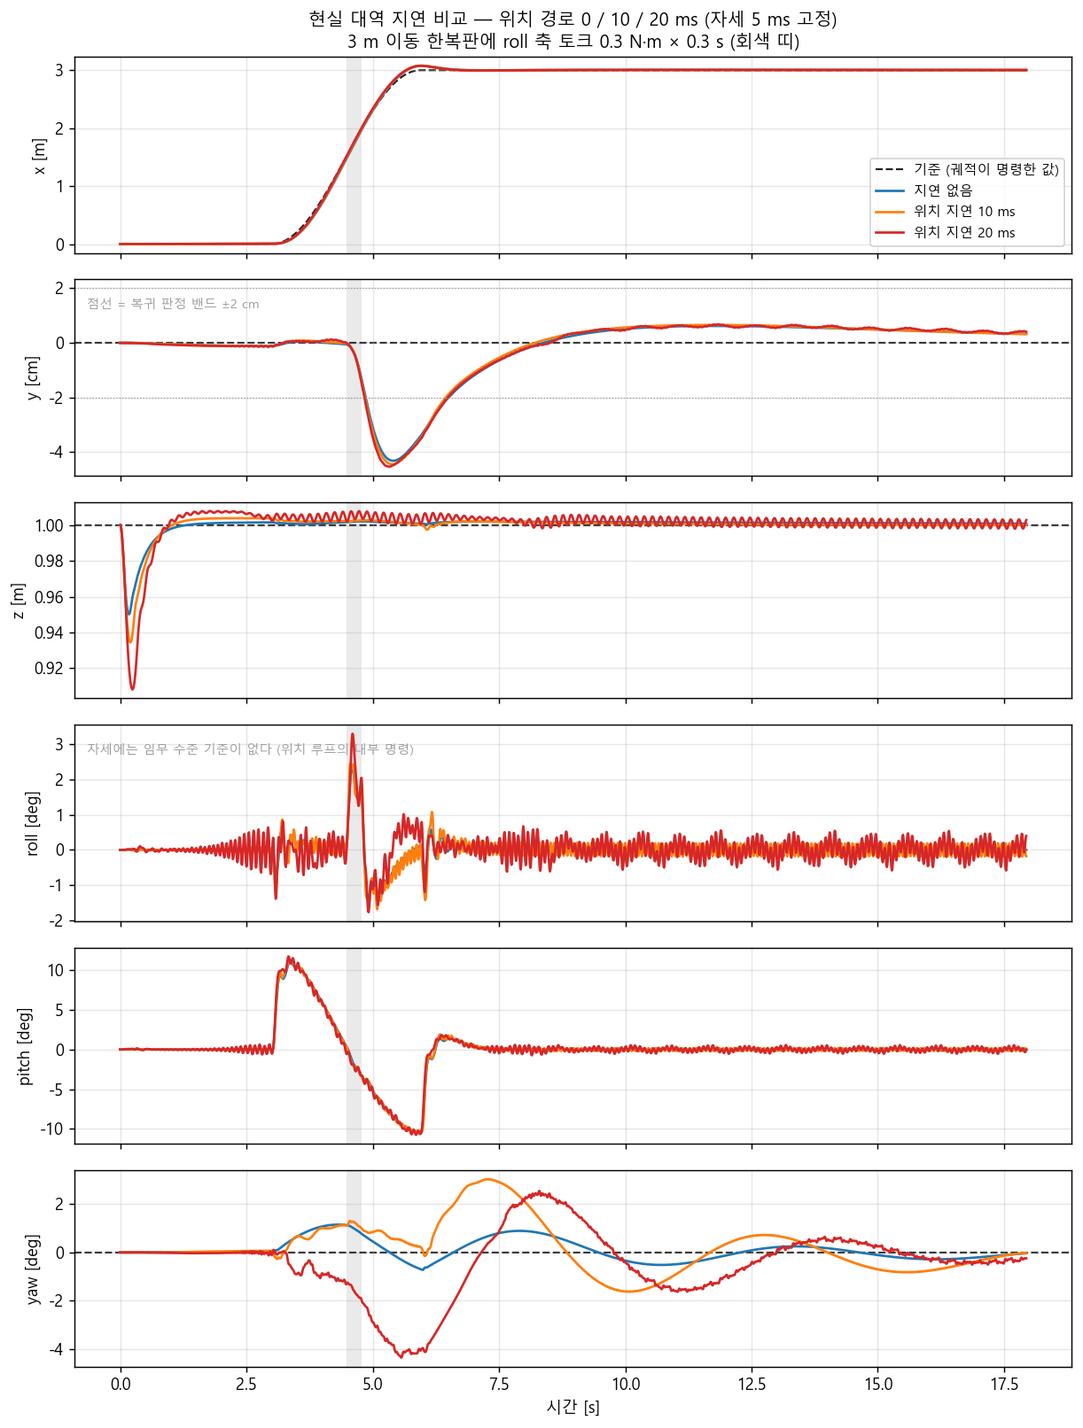
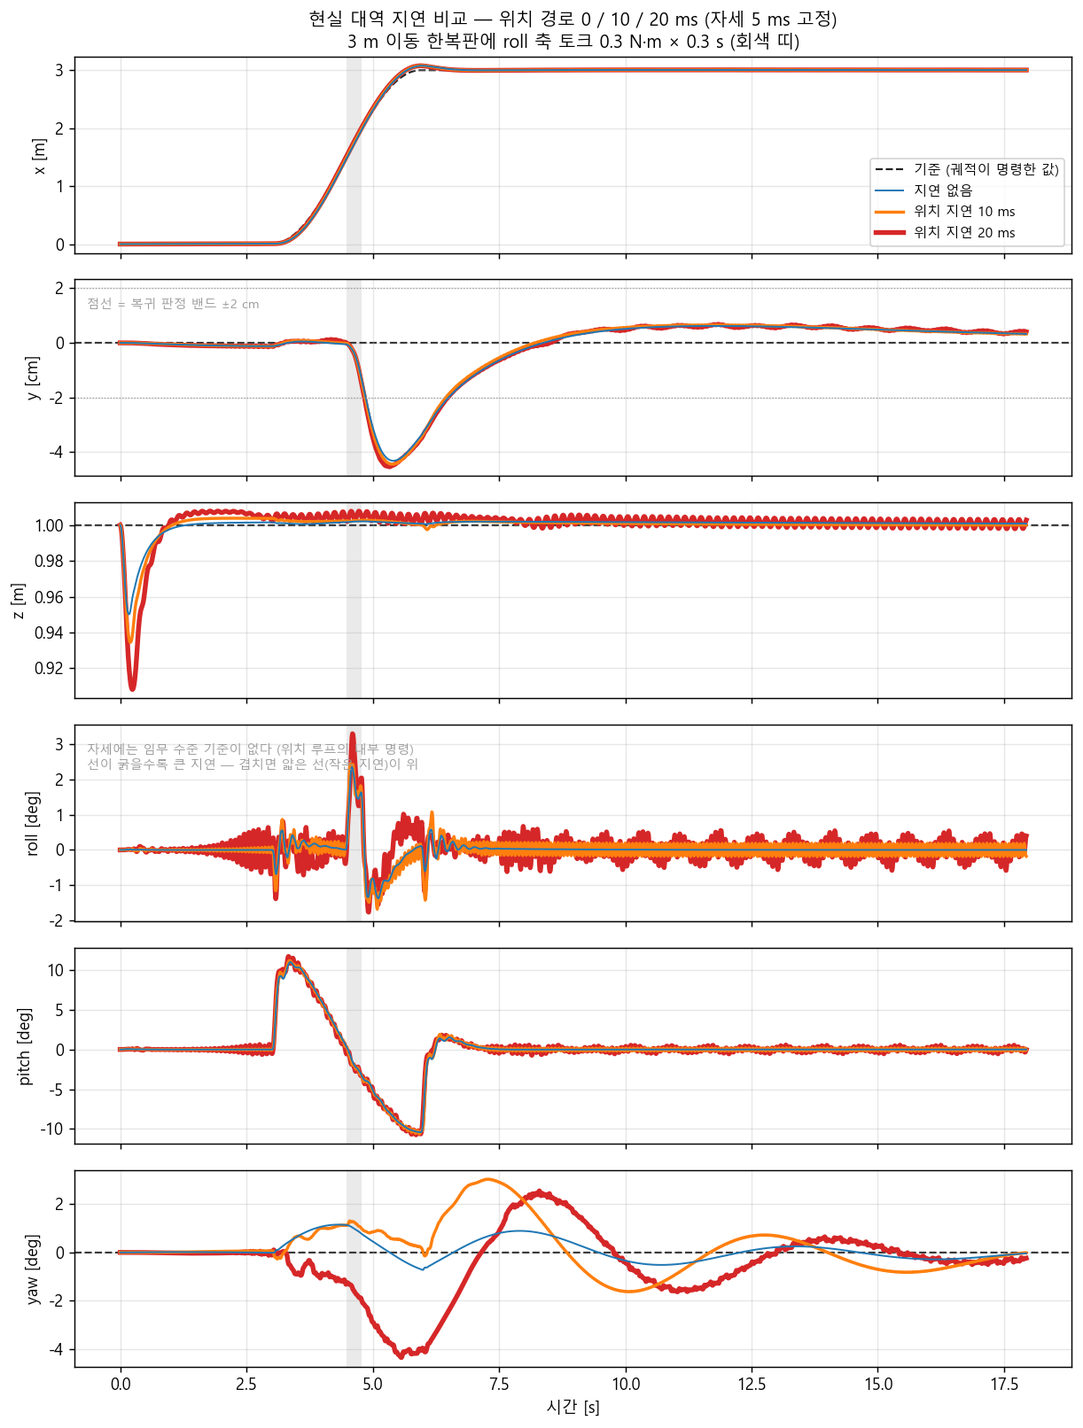
그림 15 파란 선 소실 정정 + 힘/복합 외란 그림 16
15번에서 "roll 파란 선이 안 보인다" — 선이 없는 게 아니라 세 곡선이 거의
포개져 나중에 그린 빨강(20 ms)이 파랑(무지연)을 통째로 덮은 것이다.
roll 진폭이 2.36 deg 인데 0/20 ms 차이는 최대 1.24 deg 라 겹침이 심하다.
큰 지연을 굵게 깔고 작은 지연을 가늘게 위에 얹도록 순서/선폭을 바꿨다.

곁들여 발견: summary.csv 는 마지막 실행분만 남으므로 힘 케이스(L,M,N)가
A/J/K 를 덮어써 펄스 시각을 못 찾았고, 그 결과 회색 외란 띠와 복귀 시간이
그림에서 통째로 빠져 있었다. s=1.00 공식값(T0 + TM/2) 폴백을 넣었다.

힘/복합 외란 실측으로 16번 그림 생성 (20 ms 지연 고정):
  토크 x 0.3 N*m   4.54 cm / 1.73 s
  힘 y 2 N        2.91 cm / 0.51 s
  힘 y 5 N        8.04 cm / 0.97 s
  복합            3.45 cm / 1.58 s
힘은 위치를 직접 밀지만 자세를 뒤집지 않아 복귀가 빠르다 — 복귀 시간을
지배하는 것은 밀린 거리가 아니라 자세 교란이다.

diff --git a/control_seoungjin/make_wrench_figure.py b/control_seoungjin/make_wrench_figure.py
@@ -1,0 +1,179 @@
+"""외란 종류 비교 — 토크 / 힘 / 복합 (위치 지연 20 ms 고정).
+
+2026-08-26. 사용자 요청: "힘이 걸린 외란 상황도", "토크와 힘 여러 방향으로".
+
+입력: diagnose/results/worstcase/ts_{K,L,M,N}.csv  (verify_worstcase.m)
+출력: figure/16_wrench/*.png
+
+    python make_wrench_figure.py
+
+왜 나눠 보나: 토크는 기체를 **돌려서** 간접적으로 밀고, 힘은 **직접** 민다. 힘은
+자세 루프가 개입하기 전에 이미 위치를 밀어 놓기 때문에 오차가 나타나는 시점과
+복귀 경로가 다르다. 능력 카드에 "외란 강건성"을 한 줄로 적으려면 둘 다 재야 한다.
+
+케이스 (전부 위치 지연 20 ms / 자세 5 ms / s=1.00 / 3 m 이동 한복판):
+  K  토크 x 0.3 N*m                  — 순수 토크
+  L  힘 y 2 N                        — 순수 힘 (옆바람 돌풍급)
+  M  힘 y 5 N                        — 강한 돌풍
+  N  토크 x 0.3 + 힘 y 2, z -2 N     — 복합 (비스듬히 맞고 아래로 눌림)
+"""
+from __future__ import annotations
+
+import csv
+import math
+import os
+import sys
+
+import matplotlib
+matplotlib.use("Agg")
+import matplotlib.pyplot as plt
+import numpy as np
+
+try:
+    sys.stdout.reconfigure(encoding="utf-8", errors="replace")
+except Exception:      # noqa: BLE001
+    pass
+
+OUT = os.path.join("figure", "16_wrench")
+RES = os.path.join("controller", "Quadcopter-Drone-Model-Simscape",
+                   "diagnose", "results", "worstcase")
+
+for cand in ("Malgun Gothic", "NanumGothic", "AppleGothic"):
+    try:
+        matplotlib.font_manager.findfont(cand, fallback_to_default=False)
+        plt.rcParams["font.family"] = cand
+        break
+    except Exception:
+        continue
+plt.rcParams["axes.unicode_minus"] = False
+plt.rcParams["mathtext.fontset"] = "dejavusans"
+plt.rcParams["figure.dpi"] = 130
+plt.rcParams["savefig.bbox"] = "tight"
+
+R2D = 180.0 / math.pi
+C_REF, C_GRAY = "#222222", "#999999"
+CASES = [("K", "토크 x 0.3 N·m", "#1f77b4"),
+         ("L", "힘 y 2 N", "#2ca02c"),
+         ("M", "힘 y 5 N", "#ff7f0e"),
+         ("N", "복합 (토크 x + 힘 y,z)", "#d62728")]
+Z_REF = 1.0
+T_PULSE = 3.0 + (3.0 * math.pi / (2 * 1.6)) / 2.0     # T0 + TM/2, s=1.00
+DUR = 0.3
+
+
+def load_ts(label):
+    p = os.path.join(RES, "ts_%s.csv" % label)
+    if not os.path.isfile(p):
+        return None
+    with open(p, newline="", encoding="utf-8") as fh:
+        rows = list(csv.DictReader(fh))
+    if not rows or "yaw" not in rows[0]:
+        return None
+    return {k: np.array([float(r[k]) for r in rows]) for k in rows[0]}
+
+
+def recover_s(d):
+    idx = np.where(d["t"] > T_PULSE + DUR)[0]
+    ok = np.abs(d["y"]) < 0.02
+    for j, k in enumerate(idx):
+        if ok[idx[j:]].all():
+            return d["t"][k] - (T_PULSE + DUR)
+    return None
+
+
+def main():
+    have = [(l, t, c, d) for l, t, c in CASES if (d := load_ts(l)) is not None]
+    missing = [l for l, _, _ in CASES if load_ts(l) is None]
+    if len(have) < 2:
+        print("시계열이 부족하다 (없음: %s)" % ", ".join(missing))
+        print("  MATLAB 에서 WC_ONLY='L,M,N' 로 verify_worstcase 를 돌릴 것.")
+        return 1
+    if missing:
+        print("주의 — 빠진 케이스: %s" % ", ".join(missing))
+
+    fig, ax = plt.subplots(6, 1, figsize=(9.5, 12.5), sharex=True)
+    panels = [("x", "x [m]", 1.0), ("y", "y [cm]", 100.0), ("z", "z [m]", 1.0),
+              ("roll", "roll [deg]", R2D), ("pitch", "pitch [deg]", R2D),
+              ("yaw", "yaw [deg]", R2D)]
+
+    d0 = have[0][3]
+    ax[0].plot(d0["t"], d0["xref"], color=C_REF, lw=1.2, ls="--",
+               label="기준 (궤적이 명령한 값)", zorder=1)
+    ax[1].axhline(0.0, color=C_REF, lw=1.2, ls="--", zorder=1)
+    ax[2].axhline(Z_REF, color=C_REF, lw=1.2, ls="--", zorder=1)
+    ax[5].axhline(0.0, color=C_REF, lw=1.2, ls="--", zorder=1)
+
+    # 외란 밖의 구간에서는 네 곡선이 거의 포개진다. 같은 굵기로 순서대로 그리면
+    # 나중에 그린 색이 앞의 색을 통째로 덮어 "그 선이 없다" 로 보인다 (15 번 그림에서
+    # 실제로 겪었다). 자극이 센 쪽을 굵게 깔고 약한 쪽을 가늘게 위에 얹는다.
+    order = list(reversed(have))
+    lws = [3.0, 2.2, 1.6, 1.0][-len(order):]
+    for i, (key, ylab, scale) in enumerate(panels):
+        for (lab, ttl, col, d), lw in zip(order, lws):
+            ax[i].plot(d["t"], scale * d[key], color=col, lw=lw, zorder=2,
+                       label=ttl if i == 0 else None)
+        ax[i].set_ylabel(ylab)
+        ax[i].grid(alpha=0.3)
+        ax[i].axvspan(T_PULSE, T_PULSE + DUR, color=C_GRAY, alpha=0.20, lw=0, zorder=0)
+
+    ax[0].set_title("외란 종류 비교 — 토크 / 힘 / 복합 (위치 지연 20 ms 고정)\n"
+                    "3 m 이동 한복판, 0.3 s 인가 (회색 띠)", fontsize=11)
+    hs, ls = ax[0].get_legend_handles_labels()
+    idx = [0] + list(range(len(hs) - 1, 0, -1))   # 역순으로 그렸으니 범례는 되돌린다
+    ax[0].legend([hs[i] for i in idx], [ls[i] for i in idx],
+                 loc="lower right", fontsize=8.5)
+    ax[1].axhline(2, color=C_GRAY, lw=0.7, ls=":")
+    ax[1].axhline(-2, color=C_GRAY, lw=0.7, ls=":")
+    ax[1].text(0.012, 0.90, "점선 = 복귀 판정 밴드 ±2 cm", transform=ax[1].transAxes,
+               fontsize=8, color=C_GRAY, va="top")
+    ax[5].set_xlabel("시간 [s]")
+    fig.tight_layout()
+
+    os.makedirs(OUT, exist_ok=True)
+    path = os.path.join(OUT, "fig_wrench_states.png")
+    fig.savefig(path)
+    plt.close(fig)
+    print("  " + path)
+
+    # 확대 그림: 펄스 전후 4초만 — 응답 모양의 차이가 여기서 보인다
+    fig2, ax2 = plt.subplots(3, 1, figsize=(9.0, 6.6), sharex=True)
+    for (lab, ttl, col, d), lw in zip(order, lws):
+        m = (d["t"] > T_PULSE - 1.0) & (d["t"] < T_PULSE + 4.0)
+        ax2[0].plot(d["t"][m], 100 * d["y"][m], color=col, lw=lw, label=ttl)
+        ax2[1].plot(d["t"][m], 100 * (d["z"][m] - Z_REF), color=col, lw=lw)
+        ax2[2].plot(d["t"][m], R2D * d["roll"][m], color=col, lw=lw)
+    for a, yl in zip(ax2, ("y [cm]", "z 오차 [cm]", "roll [deg]")):
+        a.set_ylabel(yl)
+        a.grid(alpha=0.3)
+        a.axvspan(T_PULSE, T_PULSE + DUR, color=C_GRAY, alpha=0.20, lw=0)
+    ax2[0].axhline(2, color=C_GRAY, lw=0.7, ls=":")
+    ax2[0].axhline(-2, color=C_GRAY, lw=0.7, ls=":")
+    h2, l2 = ax2[0].get_legend_handles_labels()
+    ax2[0].legend(h2[::-1], l2[::-1], fontsize=8.5)
+    ax2[0].set_title("펄스 전후 확대 — 토크는 돌려서 밀고, 힘은 직접 민다", fontsize=11)
+    ax2[2].set_xlabel("시간 [s]")
+    fig2.tight_layout()
+    p2 = os.path.join(OUT, "fig_wrench_zoom.png")
+    fig2.savefig(p2)
+    plt.close(fig2)
+    print("  " + p2)
+
+    print()
+    print("%-24s %9s %9s %9s %9s %9s %8s"
+          % ("외란", "y최대[cm]", "z최대[cm]", "roll[deg]", "pitch[deg]", "yaw[deg]", "복귀[s]"))
+    for lab, ttl, col, d in have:
+        m = d["t"] >= T_PULSE
+        rec = recover_s(d)
+        print("%-24s %9.2f %9.2f %9.2f %9.2f %9.2f %8s"
+              % (ttl,
+                 100 * np.abs(d["y"][m]).max(),
+                 100 * np.abs(d["z"][m] - Z_REF).max(),
+                 R2D * np.abs(d["roll"][m]).max(),
+                 R2D * np.abs(d["pitch"][m]).max(),
+                 R2D * np.abs(d["yaw"][m]).max(),
+                 "-" if rec is None else "%.2f" % rec))
+    return 0
+
+
+if __name__ == "__main__":
+    sys.exit(main())

diff --git a/control_seoungjin/make_realband_figure.py b/control_seoungjin/make_realband_figure.py
@@ -57,6 +57,11 @@ CASES = [("A", "지연 없음", "#1f77b4"),
          ("J", "위치 지연 10 ms", "#ff7f0e"),
          ("K", "위치 지연 20 ms", "#d62728")]
 Z_REF = 1.0        # 이 임무의 고도 기준 (verify_worstcase.m 의 Z0)
+# s=1.00 일 때의 펄스 시각 — T0 + TM/2, TM = 3 m / v_ref(1.6) 의 사다리꼴 시간.
+# summary.csv 는 마지막 실행분만 남기므로 (WC_ONLY 로 골라 돌리면 그 케이스만),
+# A/J/K 가 거기 없을 때 쓰는 폴백이다. verify_worstcase.m 의 정의와 같아야 한다.
+T_PULSE_S1 = 3.0 + (3.0 * math.pi / (2 * 1.6)) / 2.0
+DUR = 0.3
 
 
 def load_ts(label):
@@ -109,7 +114,9 @@ def main():
         if tp is not None:
             break
     if tp is None:
-        print("주의 — summary.csv 에서 펄스 시각을 못 찾았다. 복귀 시간을 못 낸다.")
+        tp = T_PULSE_S1
+        print("주의 — summary.csv 에 A/J/K 가 없다 (다른 케이스가 덮어씀). "
+              "s=1.00 공식값 t=%.3f s 로 대체한다." % tp)
 
     fig, ax = plt.subplots(6, 1, figsize=(9.5, 12.5), sharex=True)
     panels = [("x", "x [m]", 1.0), ("y", "y [cm]", 100.0), ("z", "z [m]", 1.0),
@@ -124,24 +131,35 @@ def main():
     ax[2].axhline(Z_REF, color=C_REF, lw=1.2, ls="--", zorder=1)
     ax[5].axhline(0.0, color=C_REF, lw=1.2, ls="--", zorder=1)
 
+    # 세 곡선은 거의 포개진다 (roll 은 진폭 2.4 deg 에 0/20 ms 차이가 최대 1.2 deg).
+    # 그냥 같은 굵기로 순서대로 그리면 나중에 그린 색이 앞의 색을 통째로 덮어
+    # "파란 선이 안 보인다" 가 된다. 지연이 큰 쪽을 굵게 깔고 작은 쪽을 가늘게
+    # 위에 얹어, 겹치는 구간에서도 세 색이 다 남게 한다.
+    order = list(reversed(have))
+    lws = [3.0, 1.9, 1.1][-len(order):]
     for i, (key, ylab, scale) in enumerate(panels):
-        for lab, ttl, col, d in have:
-            ax[i].plot(d["t"], scale * d[key], color=col, lw=1.5, zorder=2,
+        for (lab, ttl, col, d), lw in zip(order, lws):
+            ax[i].plot(d["t"], scale * d[key], color=col, lw=lw, zorder=2,
                        label=ttl if i == 0 else None)
         ax[i].set_ylabel(ylab)
         ax[i].grid(alpha=0.3)
         if tp is not None:
-            ax[i].axvspan(tp, tp + 0.3, color=C_GRAY, alpha=0.20, lw=0, zorder=0)
+            ax[i].axvspan(tp, tp + DUR, color=C_GRAY, alpha=0.20, lw=0, zorder=0)
 
     ax[0].set_title("현실 대역 지연 비교 — 위치 경로 0 / 10 / 20 ms (자세 5 ms 고정)\n"
                     "3 m 이동 한복판에 roll 축 토크 0.3 N·m × 0.3 s (회색 띠)",
                     fontsize=11)
-    ax[0].legend(loc="lower right", fontsize=8.5)
+    # 위에서 역순으로 그렸으므로 범례는 다시 지연 오름차순으로 돌려 놓는다
+    hs, ls = ax[0].get_legend_handles_labels()
+    idx = [0] + list(range(len(hs) - 1, 0, -1))
+    ax[0].legend([hs[i] for i in idx], [ls[i] for i in idx],
+                 loc="lower right", fontsize=8.5)
     ax[1].axhline(2, color=C_GRAY, lw=0.7, ls=":")
     ax[1].axhline(-2, color=C_GRAY, lw=0.7, ls=":")
     ax[1].text(0.012, 0.90, "점선 = 복귀 판정 밴드 ±2 cm", transform=ax[1].transAxes,
                fontsize=8, color=C_GRAY, va="top")
-    ax[3].text(0.012, 0.90, "자세에는 임무 수준 기준이 없다 (위치 루프의 내부 명령)",
+    ax[3].text(0.012, 0.90, "자세에는 임무 수준 기준이 없다 (위치 루프의 내부 명령)\n"
+                            "선이 굵을수록 큰 지연 — 겹치면 얇은 선(작은 지연)이 위",
                transform=ax[3].transAxes, fontsize=8, color=C_GRAY, va="top")
     ax[5].set_xlabel("시간 [s]")
     fig.tight_layout()
@@ -162,11 +180,11 @@ def main():
         settled = d["t"] > 6.0
         rec = None
         if tp is not None:
-            idx = np.where(d["t"] > tp + 0.3)[0]
+            idx = np.where(d["t"] > tp + DUR)[0]
             ok = np.abs(d["y"]) < 0.02
             for j, k in enumerate(idx):
                 if ok[idx[j:]].all():
-                    rec = d["t"][k] - (tp + 0.3)
+                    rec = d["t"][k] - (tp + DUR)
                     break
         zr = 100.0 * (d["z"][settled].max() - d["z"][settled].min()) if settled.any() else float("nan")
         print("%-16s %9.2f %9.2f %9.2f %9.2f %9.2f %9.2f %8s"

diff --git a/control_seoungjin/SESSIONS_BOARD.md b/control_seoungjin/SESSIONS_BOARD.md
@@ -17,6 +17,7 @@
 ## 튜닝/C++ 세션 (17차 계열)
 - 08-26 — **사용 전력량 지표 신설 (`energy.py`) + 극한 조합 MATLAB 실측**. 사용자 요구: "먼저 사용 전력 추정치 -> 실제 전력 사용량 확인 -> 피드백", "위에서 남은 전력 가지고 잘 짜지". ① **역할 분리 확정**: 잔량은 **BMS/전력모듈만** 안다 (모터 회전량 적분은 드리프트·노화·온도를 못 보는 열린 루프). 모터 관측은 잔량이 아니라 **교차검증 + BMS 없는 시뮬의 대체 실측** 용도. 추정치는 운동량 이론 `T=m|a-g|` -> `P_ideal/(FM*eta)` — 궤적만 있으면 **비행 전에** 나오므로 계획기가 쓴다. 눈금: 1 kg 호버 **267 W = 8.5 g/W** (실기 대역). ② **★ 세 모델이 갈렸다**: 같은 호버(634 rad/s, 22.3 N)를 운동량 이론 267 W / Simscape 배터리 **90 W (25 g/W, 불가능하게 좋음)** / `qc_motor.hpp` Cq **636 W (3.6 g/W, 비현실적으로 나쁨)** 로 예측. Simscape 배터리는 SOC 표시용 이상화 모델이고, `Cq` 는 프로펠러 공력이 아니라 **토크 클램프 0.2 N·m 에서 634 rad/s 가 되도록 역산**된 값이라 그렇다. **둘 다 교정 출처에서 배제** (`TRUSTED_SOURCES = {power_module, bms, flight_log}`) — 낙관적인 쪽(0.335배)으로 교정하면 계획기가 여유를 3배로 착각해 배터리가 임무 중에 죽는다. 실기 전력 모듈 들어오면 그때 연다. ③ **감쇄의 에너지 대가 정량화**: 이 기체는 E ≈ 무게x시간 (3 m 이동 평균 전력이 호버와 동일 — 기동 몫이 측정 한계 안, 게인 조임도 마찬가지). 따라서 스펙을 s 로 깎으면 시간이 1/s 로 늘어 **에너지도 ~1/s 로 는다**: s=0.75 +33% / 0.55 +82% / 0.37 **+170%**. 지연 강건성과 전력이 정면으로 맞서므로 답은 "최소화"가 아니라 **게이트를 통과하는 가장 큰 s** (= recovery_watcher 가 하는 일). 과감쇄에 이제 가격표가 붙었다. ④ **극한 조합 실측** (`diagnose/verify_worstcase.m`, 9케이스): A 무지연 s=1.00 복귀 **1.73 s** (기록된 1 kg 기준선과 정확히 일치 = 회귀 무결) vs B 지연 60/12 ms **안 깎음** 복귀 **9.44 s** (5.5배 악화, 게이트 3 s 초과) — **"지연이 있으면 스펙을 깎아야 한다"의 직접 증거**. 문서 `INTERFACE_SPEC.md` 5e 신설, 그림 `figure/13_worstcase/`, 테스트 +28 (총 293)
 - 08-26 — **Gazebo 검증 하네스 작성 (`control_seoungjin/gazebo/`, 미실행)** + 그 과정에서 **C++ 버그 2건 적발**. ① **고도 클램프 배선 오류 — 고침**: `qc_controller.cpp` 가 `base = clamp(uA + bias, ±30)` 이라 1 kg 에서 base 가 항상 30 rev/s 로 잘렸다 → 추력 **1.97 N vs 무게 22.29 N**, 즉 **제어기가 뜰 수 없는 상태**였다. Simulink 배선은 `cmd → Alt Cmd Sat → Bias Chassis` (`diagnose/bake_tuned_model.m` (3)) 로 포화가 **바이어스 전**이다 → `base = clamp(uA, ±30) + bias` 로 정정. 검증(msys64 g++ 재빌드 실측): 호버 `motorRef = 634.0 rad/s` = 기록된 호버 평형과 일치, 추력 22.26 vs 22.29 N, 추력비 0.895 (`controller_cpp/README` 기록 0.907). 교차 확인: 0 kg 역산 base 75.6 rev/s == `qc_mass_lerp` 0 kg 앵커 **75.5** (독립 유도인데 0.1% 일치). **★ motorRef/motorCmd 골든 트레이스 재대조 필요** (cmd_pitch/cmd_roll 위치 체인은 불변 → 07-18 합격 유지). ② **`mixYaw` 는 yaw 토크를 못 만든다 (미수정, 하네스에서만 우회)**: 헤더 `mixYaw={-1,+1,-1,+1}` 이 `mixDir={+1,-1,-1,+1}` 과 **직교** → 반토크 차동이 상쇄돼 yaw 권한이 원리적으로 0. 유도되는 로터 배치도 대각 회전방향이 반대라 X 쿼드 위반. 08-18 실측표는 `mixYaw = -mixDir` 로 완전 정렬 + 네 행 상호 직교. **08-18 이 남긴 "모터 인덱스 치환만큼 어긋나 보인다" 는 반증됨** — 치환은 `mixYaw·mixDir` 내적을 못 바꾸므로 헤더 표는 어떤 치환으로도 실측표가 될 수 없다. 헤더는 골든 불변 위해 안 건드리고 하네스 기본값만 실측표로. 하네스가 `probe_yaw` vs `probe_yaw_headertable` 로 실측 확인 예정. 상세: `gazebo/README.md`, `gazebo/GAZEBO_STATUS.md`
+- 08-28 — **힘/복합 외란 실측 (L·M·N) + 그림 15·16 가시성 정정**. ① 힘 외란은 토크보다 **부드럽다**: 같은 20 ms 지연에서 토크 x 0.3 N*m = 옆밀림 4.54 cm / 복귀 1.73 s 인데, 힘 y 2 N (돌풍급) = 2.91 cm / **0.51 s**, 힘 y 5 N (강한 돌풍) = 8.04 cm / 0.97 s, 복합(토크 x + 힘 y 2, z -2) = 3.45 cm / 1.58 s. 힘은 위치를 직접 밀지만 자세를 뒤집지 않아 복귀가 빠르고, 토크는 자세를 흔들어 놓아 오래 끈다 — **복귀 시간을 지배하는 것은 밀린 거리가 아니라 자세 교란**이다. 다만 힘 5 N 은 roll 14.9 deg / yaw 18.3 deg 로 yaw 가 크게 밀린다 (창 통과 반FOV 관점에서 별도 판정 필요). ② 그림 15 에서 '파란 선(무지연)이 안 보인다' — 실제로는 세 곡선이 거의 포개져 나중에 그린 빨강이 덮은 것 (roll 진폭 2.36 deg 에 0/20 ms 차이 최대 1.24 deg). **큰 지연을 굵게 깔고 작은 지연을 가늘게 위에 얹도록** 그리는 순서·선폭을 바꿨다 (15·16 둘 다). ③ `summary.csv` 는 마지막 실행분만 남으므로 (WC_ONLY 로 골라 돌리면 그 케이스만) A/J/K 가 사라져 회색 외란 띠와 복귀 시간이 통째로 빠져 있었다 → s=1.00 공식값 `T0 + TM/2` 폴백 추가. 그림 `figure/16_wrench/`
 - 08-18 저녁 — **골든 트레이스 대조 완료 → 믹서 부호·모멘트 암 정정** (`compare_golden.py` + `diagnose/golden_plant_export*.m`) — 각가속도 직접 상관으로 재검정. **아래 줄 ②의 부호표는 틀렸다**: roll `[-1,+1,-1,+1]` / pitch `[+1,+1,-1,-1]` (**둘 다 반전**) / yaw `[-1,+1,+1,-1]`(불변) — 피치 상관이 −0.916 → **+0.975**로 뒤집혀 확정. 오류 원인은 **정착 각도로 부호를 유추한 것** (각도 유지 구간은 순토크≈0이라 각도-차동량 관계로 토크 부호를 읽을 수 없음. 옳은 검정은 각가속도와의 순간 상관). ③의 "균등 가중치"도 정정 — **유효 모멘트 암 ℓ = 0.0930 m** (가정했던 X-쿼드 균등값 0.159 m가 아님; roll/pitch 유효계수 0.0932 vs 0.0929로 0.4% 이내 일치 = 플랜트 대칭 자기검증). **개별 모터 암은 식별 불가** — 조건수 1.1e4, 4파라미터 R² 0.8404가 1파라미터 0.839와 무차이(호버에서 네 추력이 거의 같아 분리 안 됨). 개루프 모터 가진 필요 (§11.3). 병진도 검증 통과(x 진폭 0.4% 일치, 호버 z 잔차 평균 +0.00136 m/s²). 방법 전환 기록: n(t) 재생은 **실패**(감쇠 없는 이중적분기라 추력 불균형 0.08 N만으로 수 초 만에 발산, 위치 오차 16 m) → 잔차 대조로 교체. 함정 실증: Simscape rpm에 물리 Ct를 먹여 위치 오차 35 m — §5.3 경고가 실제로 사람을 잡음. 문서 반영 `docs/DYNAMICS.md` §10.2/§10.4/§11.1/§11.3. **★튜닝/C++ 세션**: `qc_controller.hpp:155`의 `[TODO-verify: 입력 포트 순서 — 골든 트레이스가 최종 판정]`이 이제 판정 가능. 단 C++ 표(pitch `[+1,-1,-1,+1]`/roll `[-1,-1,+1,+1]`/yaw `[-1,+1,-1,+1]`, 블록 덤프 출처)와 위 실측표가 **모터 인덱스 치환만큼 어긋나** 보임 — 로터 인덱스→기하 매핑(윤호 seam에서도 미정) 확정과 함께 대조 요망
 - 08-18 — **자세 게인 스케일 법칙: 판별 불가로 종결** (`probe_2kg_law.m`) — 2kg에서 후보 3종(1차식 1.250 / I·m^-0.5 1.077 / 관성비 1.293) 대조: 추종 3.96 / 4.04 / 4.01, 오버 7.6 / 7.8 / 7.7 — **게인 20% 차이에 성능 2% 변동**으로 구별 불가. A행은 18차 기록 소수점까지 재현(회귀 무결). ★핵심: 실패 원인이 0kg과 **정반대** — 0kg은 과민(3e-7에 34% 변동), 2kg은 둔감(20%에 2% 변동). 즉 **법칙의 형태가 결과를 좌우하는 구간은 저질량뿐이고 그 구간은 측정 불가**. 0.5~2kg은 어떤 법칙이든 무방하며 중요한 건 보정의 존재 자체. → 현행 1차식 유지, 보고서엔 물리 유도가 아니라 **경험적 보정**으로 기술할 것 (DYNAMICS.md §11.2)
 - 08-18 — **★미확정 2건 실측 확정 (믹서 부호표 / 프로펠러 회전속도)** — `diagnose/probe_prop_and_mixer.m` 신설·실행. ① **프로펠러 단위 결착**: 호버 `Prop.w` 실측 633.7(평균 크기), 추력 5.55 N/모터(합 22.27 N, 필요 22.29 N과 0.06% 일치). 블록이 kT=9.79를 쓰므로 역산 n=10.56 rev/s → **로그 채널은 rpm이고 프로펠러는 66.4 rad/s로 돈다**. 즉 TUNING_STATUS/`qc_motor.hpp`의 "평형 634 **rad/s**"는 실제로 **634 rpm**이며, 91.3배는 (30/π)² 단위 불일치를 kT가 흡수한 것. C++ 모델(Ct=0.1072 @ 634 rad/s)과 Simscape(kT=9.79 @ 634 rpm)는 **회전속도가 다르지만 추력은 같다** — Gazebo 이식 시 주의. ② ~~**믹서 부호표 확정**: roll `[+1,-1,+1,-1]` / pitch `[-1,-1,+1,+1]` / yaw `[-1,+1,+1,-1]`.~~ **[정정 08-18 저녁 — roll·pitch 반전, 윗줄 참조]** 세 행 + 추력 행이 서로 모두 직교(그람=4I)로 자기검증. 회전방향 `[+,-,-,+]`(M2·M3 역회전) 실측. ③ **신규 발견**: CAD 암 배치가 90° 간격이되 축에서 −11.7° 회전한 "+"형 — 45° X-쿼드 아님. 관성은 무영향(반지름만 관여, qc_phys 유효), 모멘트 암 가중치만 영향. 단 기하 가중치는 교차결합 66%를 예측하는데 실측은 16%라 **반증** → ~~균등 가중치가 더 나은 근사~~ **[정정 08-18 저녁 — 유효 ℓ=0.0930 m, 개별 암은 식별 불가]**, 정밀 확정은 모터 좌표 실측 필요. ④ **독립 6-DOF 적분기 신설** (`control_seoungjin/plant_sim.py`) — 골든 트레이스의 파이썬 절반. 자체검증 3/3(호버 평형 고도드리프트 0.000cm, 자유낙하 항력 +30cm, 스핀다운 1/e 0.069s). n(t) 규정 모드·CSV 재생 포함. ⑤ 문서: `docs/DYNAMICS.md` §10.2 부호 교체·§11 2건 종결·§11.0 신설, `docs/DYNAMICS_INTRO.md` 신설(입문용)
